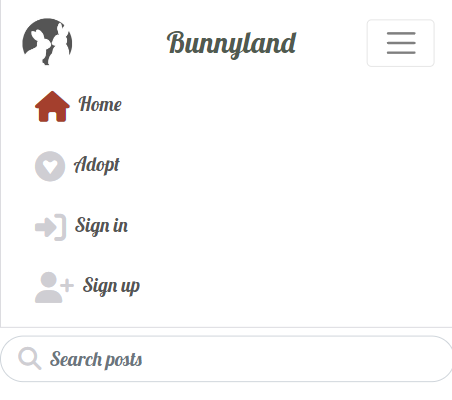
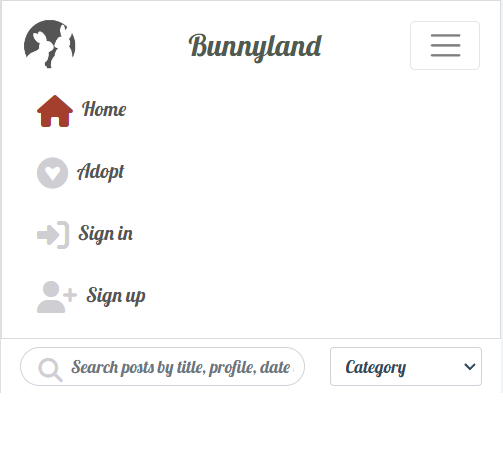
deployment commit

diff --git a/src/pages/posts/PostsPage.js b/src/pages/posts/PostsPage.js
@@ -6,6 +6,7 @@ import Row from "react-bootstrap/Row";
 import Container from "react-bootstrap/Container";
 
 import Post from "./Post";
+import Adoptionpost from "../adoptionposts/Adoptionpost";
 import Asset from "../../components/Asset";
 
 import appStyles from "../../App.module.css";
@@ -19,9 +20,11 @@ import { fetchMoreData } from "../../utils/utils";
 import PopularProfiles from "../profiles/PopularProfiles";
 import { useCurrentUser } from "../../contexts/CurrentUserContext";
 
-function PostsPage({ message, filter = "" }) {
+function PostsPage({ message, filter = "", filterAdoption = "" }) {
   const [posts, setPosts] = useState({ results: [] });
+  const [adoptionPosts, setAdoptionPosts]= useState({ results: [] });
   const [hasLoaded, setHasLoaded] = useState(false);
+  const [hasLoadedAdoption, setHasLoadedAdoption] = useState(false);
   const { pathname } = useLocation();
 
  
@@ -40,15 +43,27 @@ function PostsPage({ message, filter = "" }) {
       }
     };
 
+    const fetchAdoptionPosts = async () => {
+      try {
+        const { data } = await axiosReq.get(`/adoption/?${filterAdoption}search=${search}`);
+        setAdoptionPosts(data);
+        setHasLoadedAdoption(true);
+      } catch (err) {
+        console.log(err);
+      }
+    };
+
     setHasLoaded(false);
+    setHasLoadedAdoption(false);
     const timer = setTimeout(() => {
       fetchPosts();
+      fetchAdoptionPosts();
     }, 1000);
 
     return () => {
       clearTimeout(timer);
     };
-  }, [filter, search, pathname, currentUser, category]);
+  }, [filter, filterAdoption, search, pathname, currentUser, category]);
 
   return (
     <Row className="h-100">
@@ -111,7 +126,31 @@ function PostsPage({ message, filter = "" }) {
             <Asset spinner />
           </Container>
         )}
+        {hasLoadedAdoption ? (
+          <>
+            {adoptionPosts.results.length ? (
+              <InfiniteScroll
+                children={adoptionPosts.results.map((post) => (
+                  <Adoptionpost key={post.id} {...post} setAdoptionposts={setAdoptionPosts} />
+                ))}
+                dataLength={adoptionPosts.results.length}
+                loader={<Asset spinner />}
+                hasMore={!!adoptionPosts.next}
+                next={() => fetchMoreData(adoptionPosts, setAdoptionPosts)}
+              />
+            ) : (
+              <Container className={appStyles.Content}>
+                <Asset src={NoResults} message={message} />
+              </Container>
+            )}
+          </>
+        ) : (
+          <Container className={appStyles.Content}>
+            <Asset spinner />
+          </Container>
+        )}
       </Col>
+      
       <Col md={4} className="d-none d-lg-block p-0 p-lg-2">
         <PopularProfiles />
       </Col>

diff --git a/src/App.js b/src/App.js
@@ -62,6 +62,7 @@ function App() {
               <PostsPage
                 message="No results found. Adjust the search keyword or like a post."
                 filter={`likes__owner__profile=${profile_id}&ordering=-likes__created_at&`}
+                filterAdoption={`adoptionlikes__owner__profile=${profile_id}&ordering=-adoptionlikes__created_at&`}
               />
             )}
           />

diff --git a/README.md b/README.md
@@ -55,21 +55,22 @@ The objective of this project is to build a community-based rabbit content shari
 
 ## Site User's Goal
 
-There are primarily three types of users who will be interacting with this platform; rabbit owners, users interested in adopting and rabbit interested users who would like to gain info. 
+There are primarily three types of users who will be interacting with this platform; rabbit owners, users interested in adopting a rabbit and users who would like to gain info about rabbits.
 
 
 ## Site Owner's Goal
 
-As the site owner, I saw a need for a bunny comunity to share tips and info about rabbits. Since there are many rabbits who needs a new home due to different circumstances an important part of the site  should also provide an easy way to adopt a bunny.
+As the site owner, I saw a need for a bunny comunity to share tips and info about rabbits. Since there are many rabbits who needs a new home due to different circumstances an important part of the site  should also be to provide an easy way to adopt a bunny.
 
 ## Project Management
 
 ### Github Project Board
 
-I've been using the project board in GitHub to keep my project together. In the initial design phase, it was really helpful to plan the project as a whole, and create the user stories based on my wireframe designs. I created a Milestone for each main app created in the backend API plus one additional for Navigation and Authentication, in order to maintain a similar structure to the backend [Project Board](https://github.com/users/Karasp1980/projects/9/views/1). Each milestone has a list of bullet points for the main desired frontend features. Then, I created a linked User Story for each feature and gave it a level of prioritization using the MoSCoW method and a number of User Story points to indicate the level of difficulty for that feature.
+I've been using the project board in GitHub to keep my project together. 
 
-![User Stories](images/user-stories.jpg)
-![Project Board](images/project-board.jpg)
+[User Stories](https://github.com/Karasp1980/bunnyland/issues)
+[Project Board](https://github.com/users/Karasp1980/projects/9)
+
 
 ### Database Schema
 
@@ -105,13 +106,13 @@ The wireframes for the site were created using [Balsamiq](https://balsamiq.com).
 ## User Stories
 Here I have listed the main user stories for a user who is not logged in, or has no account and a logged in user. These user stories were then tested and confirmed in the [Testing](<#testing>) section.
 
-
+[User Stories](https://github.com/Karasp1980/bunnyland/issues)
 
 [Back to top](<#table-of-contents>)
 
 ## Site Structure
 
-Happening is split up in two parts: when the user is logged out and when the user is logged in. Depending on login status different pages are available for the user. When the user is logged out the pages: Home, and Sign In or Up are available from the Navigation Bar menu. When the user is logged in Feed, My Events, Reviews, Signout and Profile Page also become available. 
+Bunnyland is split up in two parts: when the user is logged out and when the user is logged in. Depending on login status different pages are available for the user. When the user is logged out the pages: Home, Adoption and Sign In or Up are available from the Navigation Bar menu. When the user is logged in Feed, Likes, Signout and Profile Page also become available. 
 
 ## Design Choices
 
@@ -225,13 +226,14 @@ The adoption posts are all the same as the posts with only a fiew differences;
 
  The user can search all the posts listed by post title, username who posted it, category, location or keyword in the content. The filter category could also be used for Posts (not adoption posts) to filter posts by category: Tip, Help needed, Other
 
-![Search filter](images/search.jpg)
+![Search filter Posts](images/search-posts.png)
+![Search filter Adoption posts](images/posts.png)
 
 * ## Feed
 
 The feed page looks identical to the homepage, only the Posts component changes. In this page all the posts are requested from the API, but then a filter is used to only show posts by profiles that the currently logged in user is following. For this reason, this page doesn't work if the user is not logged in. Equally, if the user isn't following any other profiles, no posts will be displayed and a 'No Results found' message will appear instead inside the events posts component. 
 
-![Feed- No Results](images/feed.jpg)
+![Feed- No Results](images/feed.png)
 
 
 * ## Create a Post
@@ -242,7 +244,7 @@ If you are logged in, you are able to share posts with the community. By clickin
 
 Each time you share a new post with the community, your posts count goes up on your profile page for other users to see how active you are on the site. 
 
-![Create Post](images/create-post.jpg)
+![Create Post](images/create-post.png)
 
 * ## Post Detail Page
 
@@ -250,21 +252,21 @@ In the post details page, this simply shows everything relating to one single po
 
 If you select Edit, you are taken back to the post creation form, but the fields are already pre-populated with the existing event information. You can edit the desired fields and save the changes, which will return you to the post detail page and you can see that the post has been updated successfully. 
 
-![Edit Post](images/edit-post.jpg)
+![Edit Post](images/edit-post.png)
 
 If you select Delete, the post will be removed from all pages and the user redirected back to the previously visited page. 
 
-![Delete Post](images/delete-post.jpg)
+![Delete Post](images/delete-post.png)
 
 Below the Posts details is the comments section. If there are no comments yet, the user will see a message telling them that there are no comments. 
 
 If the user is not logged in, they can read any comments that have been posted but they can't post a comment themselves unless they log in. 
 
-![Comments - not logged in](images/no-comments.jpg)
+![Comments - not logged in](images/no-comments.png)
 
 Any comments that have been posted about this post are displayed, regardless of login status. If the user logs in they will see a comment form above the existing comments where they can post their own comments about the post for other users to read. 
 
-![Comments](images/comments.jpg)
+![Comments](images/comments.png)
 
 * ## Create an Adoption post
 
@@ -273,7 +275,7 @@ If you are logged in, you are able to share Adoption posts with the community. B
  Once the form has been submitted successfully, you can see the post published successfully as you are re-directed automatically to the newly created event details page. 
 
 
-![Create Adoption post](images/create-adoptionpost.jpg)
+![Create Adoption post](images/create-adoptionpost.png)
 
 * ## Adoptinpost Detail Page
 
@@ -281,7 +283,7 @@ In the Adoptionpost details page, this simply shows everything relating to one s
 
 If you select Edit, you are taken back to the post creation form, but the fields are already pre-populated with the existing event information. You can edit the desired fields and save the changes, which will return you to the post detail page and you can see that the post has been updated successfully. 
 
-![Edit Adoptionpost](images/edit-adoptionpost.jpg)
+![Edit Adoptionpost](images/edit-adoptionpost.png)
 
 If you select Delete, the post will be removed from all pages and the user redirected back to the previously visited page just like on the Post Edit page.
 
@@ -305,17 +307,17 @@ When a user signs up and creates a new site account, a basic profile is automati
 * Number of profiles they are following
 * Number of profiles that are following them
 
-![Profile Page](images/profilepage.jpg)
+![Profile Page](images/profilepage.png)
 
 There is an about container and a contact details container which remain empty until the user goes into their own profile page and clicks on the three dots dropdown to Edit the profile and add their personal details to the page. If they click on the Edit Profile option, they are taken to a new page containing the full profile details form to fill in and submit. Here, they can add their own avatar image, a name, bio. These are designed mainly to give posts hosts the opportunity to publish additional information but of course all users are welcome to add as much or little personal info as they wish. 
 
-![Profile Edit](images/profile-edit.jpg)
+![Profile Edit](images/profile-edit.png)
 
 Once these fields have been filled in, they can be seen by other users in the main profile page stats container. 
 
 Each profile also has a follow button inside the stats container so that other users can click it to follow and unfollow the profile as all profiles won't always appear listed in the popular profiles component, to access the follow functionality there. 
 
-![Profile Stats](images/profile-follow.jpg)
+![Profile Stats](images/profile-follow.png)
 
 ### Profile Posts
 
@@ -327,20 +329,20 @@ At the top right side of the Profile page there is a messaging system component.
 
 If you are viewing someone else's profile, the message component contains a form to write a message and send it to the owner of the profile page you are viewing. 
 
-![Create Message](images/profile-send-message.jpg)
+![Create Message](images/profile-send-message.png)
 
 If you are viewing your own profile page the messaging component will display your own private message inbox. Other users will not be able to see the messages that have not been sent to them. All messages that have been sent to you, are displayed in descending order of when they were sent. You can see the avatar and the username of the sender, the date the message was sent, and the message itself. Each message has a 'reply' button if the user wants to send a reply message back to the sender. 
 
-![Received Messages](images/messages-list.jpg)
-![Messages - Reply](images/message-replyforms.jpg)
+![Received Messages](images/messages-list.png)
+![Messages - Reply](images/message-replyforms.png)
 
 Unlike with other forms such as creating an event, comment or review, where you can see the published content once the form has been posted successfully, the user does not have access to other user's inboxes to check whether the message has been sent successfully or not. For this reason, in the case of the messaging component, I have set up an alert system using Bootstrap alerts, to display a success alert message when a message or a reply message have been sent successfully. This adds to good user experience, and user peace of mind. 
 
-![Message Success message](images/message-success.jpg)
+![Message Success message](images/message-success.png)
 
 Equally, if the user tries to send a blank message, they will see a Bootstrap warning message telling them that they must fill in the message field in order to send the message successfully. 
 
-![Message Alert](images/message-blank)
+![Message Alert](images/message-blank.png)
 
 For the time being, there is no alert system in place to send a notification to a user when they receive a new message, but this is something I would like to look into in future development sprints.
 
@@ -359,11 +361,11 @@ If you are viewing someone else's profile, no Adoption request field is visable.
 
 Unlike with other forms such as creating a post, adoption post or comment, where you can see the published content once the form has been posted successfully, the user does not have access to other user's inboxes to check whether the adoption request has been sent successfully or not. For this reason, in the case of the messaging component, I have set up an alert system using Bootstrap alerts, to display a success alert message when a message or a reply message have been sent successfully. This adds to good user experience, and user peace of mind. 
 
-![Adoption request Success message](images/adoptionrequest-success.jpg)
+![Adoption request Success message](images/adoptionrequest-success.png)
 
 Equally, if the user tries to send a blank message, they will see a Bootstrap warning message telling them that they must fill in the fields in order to send the request successfully. 
 
-![Message Alert](images/adoptionrequest-alert)
+![Message Alert](images/adoptionrequest-alert.png)
 
 For the time being, there is no alert system in place to send a notification to a user when they receive a new adoption request, but this is something I would like to look into in future development sprints.
 
@@ -453,7 +455,7 @@ Once you have set up the workspace and done a basic deploy to Heroku, you can co
 
 
 # Acknowledgements
-This site was created for Portfolio Project #5 (Advanced Front End Specialisation) - Diploma in Full Stack Software Development at the [Code Institute](https://www.codeinstitute.net). I would like to give a huge thanks to my mentor Antonio Rodriques for all help during this project as well as during all five course projects.
+This site was created for Portfolio Project #5 (Advanced Frontend Specialisation) - Diploma in Full Stack Software Development at the [Code Institute](https://www.codeinstitute.net). I would like to give a huge thanks to my mentor Antonio Rodriques for all help during this project as well as during all five course projects.
 
 
 
@@ -484,6 +486,7 @@ This site was created for Portfolio Project #5 (Advanced Front End Specialisatio
 * [https://www.flaticon.com](https://www.flaticon.com)
 * [https://www.hepper.com](https://www.hepper.com/diy-rabbit-litter-box/)
 * [https://xn--svenskateddysllskapet-i2b.weebly.com/]( https://xn--svenskateddysllskapet-i2b.weebly.com/)
+* [https://teddysallskapet.weebly.com/rasstandard.html/]( https://teddysallskapet.weebly.com/rasstandard.html)
 
 
 
@@ -492,6 +495,7 @@ This site was created for Portfolio Project #5 (Advanced Front End Specialisatio
 * [Happening - API](https://github.com/quiltingcode/events-backend-api)
 * [Gear addict](https://github.com/Matthew-Hurrell/gear-addict)
 * [Gear addict - API](https://github.com/Matthew-Hurrell/gear-addict-api)
+* [Garden Diary - API](https://github.com/EmelieMarkkanen/p5-garden-diary-api)
 
 
 
